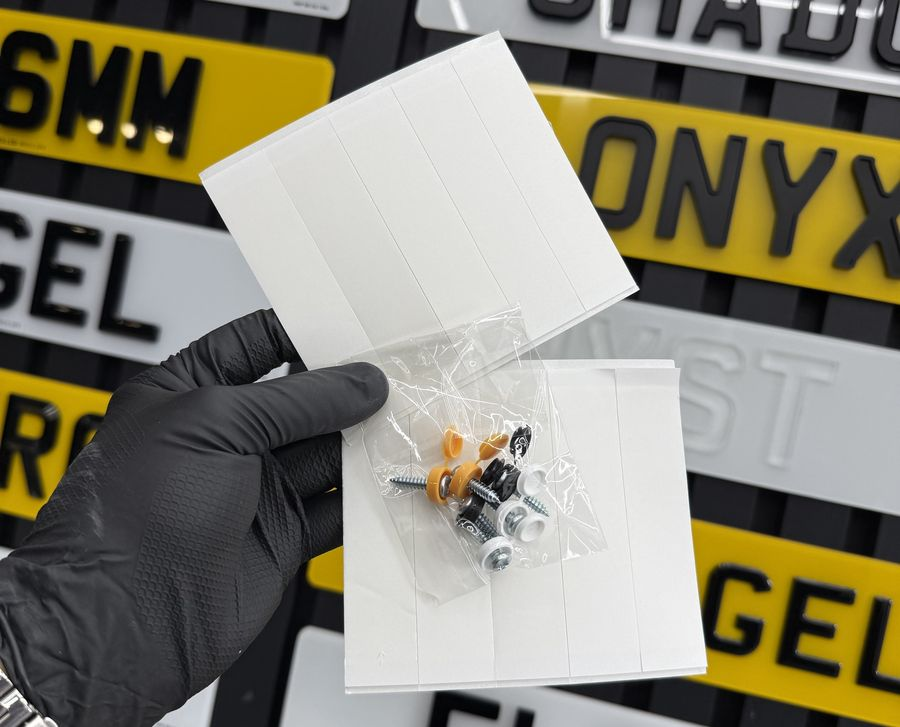
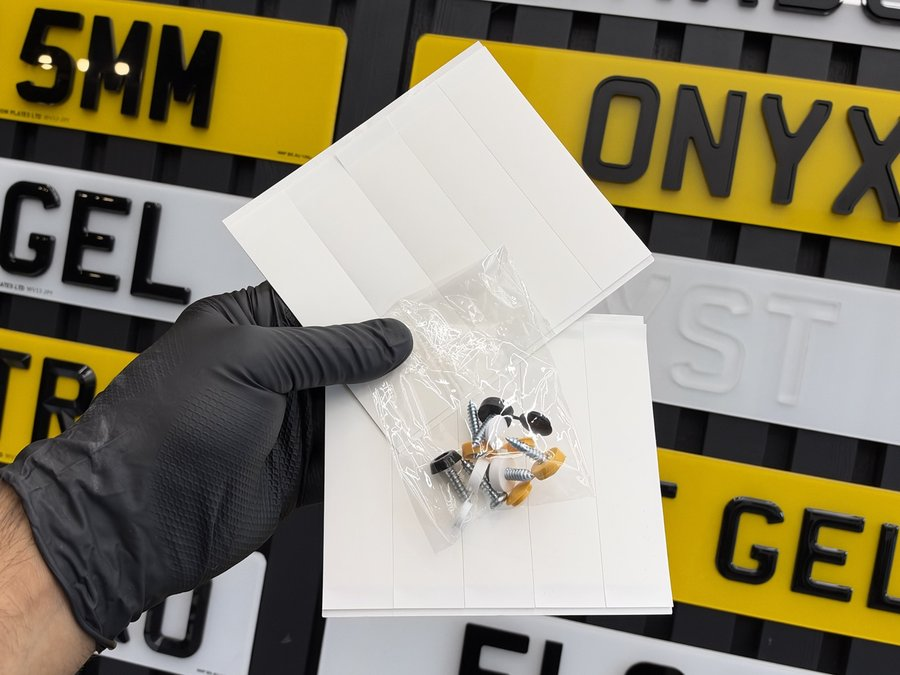
Accessories: new photos for the fitting kit, magnet kit and plate clips (REG KING's own)
Claude-Session: https://claude.ai/code/session_01VRor3QangJLf2TpGqbk7gL

diff --git a/lib/accessoryShop.ts b/lib/accessoryShop.ts
@@ -37,7 +37,7 @@ export type AccProduct = {
   art: AccArt;
   /** More about it, for its own page. Only what's known for sure (from the product and its photo). */
   about?: string[];
-  /** Not on sale yet: shows a "Coming soon" image and price. */
+  /** Not on sale yet: "Coming soon" in place of the price (and in place of the photo if there isn't one). */
   soon?: boolean;
 };
 
@@ -53,7 +53,7 @@ export const ACC_PRODUCTS: AccProduct[] = [
   { key: "screws", name: "Screw Kit", cat: "fixings", line: "Screws with black, white and yellow caps", price: 1.99, handle: "number-plate-screw-kit", photo: "products/screw-kit.jpg", about: ["Pick the cap colour that matches each plate: yellow for the rear, white for the front, or black."], art: "screws" },
   // CONFIRM: price, and whether it fits standard 520mm plates only.
   { key: "plate-holder", name: "Plate Holder", cat: "mounting", line: "A frame the plate clips into, for a clean fit", price: null, photo: "products/plate-holder.jpg", about: ["A frame that fixes to the car. The plate clips into it, so the plate itself needs no screw holes."], art: "clips" },
-  // Not on sale yet: shown with a "Coming soon" image.
-  { key: "clips", name: "Plate Clips", cat: "mounting", line: "Hold a plate without drilling", price: null, art: "clips", soon: true },
-  { key: "magnets", name: "Magnet Kits", cat: "mounting", line: "Swap plates on and off in seconds", price: null, art: "magnets", soon: true },
+  // Not on sale yet: REG KING's own photo, with "Coming soon" in place of a price.
+  { key: "clips", name: "Plate Clips", cat: "mounting", line: "Hold a plate without drilling", price: null, photo: "products/plate-clips.jpg", art: "clips", soon: true },
+  { key: "magnets", name: "Magnet Kits", cat: "mounting", line: "Swap plates on and off in seconds", price: null, photo: "products/magnet-kit.jpg", art: "magnets", soon: true },
 ];

diff --git a/components/AccessoriesView.tsx b/components/AccessoriesView.tsx
@@ -159,7 +159,7 @@ function ProductCard({ p }: { p: AccProduct }) {
     <article className="acx-card" data-product={p.key}>
       <a className="acx-card__link" href={`#accessories-item-${p.key}`} onClick={(e) => (e.preventDefault(), go(`accessories-item-${p.key}`))} data-acc-open={p.key}>
         <span className="acx-card__show" aria-hidden>
-          {p.soon ? <ComingSoon /> : p.photo && !noPhoto ? <img src={p.photo} alt="" loading="lazy" onError={() => setNoPhoto(true)} /> : <span className="acx-plate">{words ?? p.name}</span>}
+          {p.photo && !noPhoto ? <img src={p.photo} alt="" loading="lazy" onError={() => setNoPhoto(true)} /> : p.soon ? <ComingSoon /> : <span className="acx-plate">{words ?? p.name}</span>}
         </span>
         <h3>{p.name}</h3>
       </a>
@@ -241,7 +241,7 @@ function ProductPage({ p }: { p: AccProduct }) {
 
         <div className="acp__grid">
           <div className="acp__photo">
-            {p.soon ? <ComingSoon /> : p.photo && !noPhoto ? <img src={p.photo} alt={p.name} onError={() => setNoPhoto(true)} /> : <span className="acx-plate">{words ?? p.name}</span>}
+            {p.photo && !noPhoto ? <img src={p.photo} alt={p.name} onError={() => setNoPhoto(true)} /> : p.soon ? <ComingSoon /> : <span className="acx-plate">{words ?? p.name}</span>}
           </div>
           <div className="acp__buy">
             <h1 id="acp-title">{p.name}</h1>
